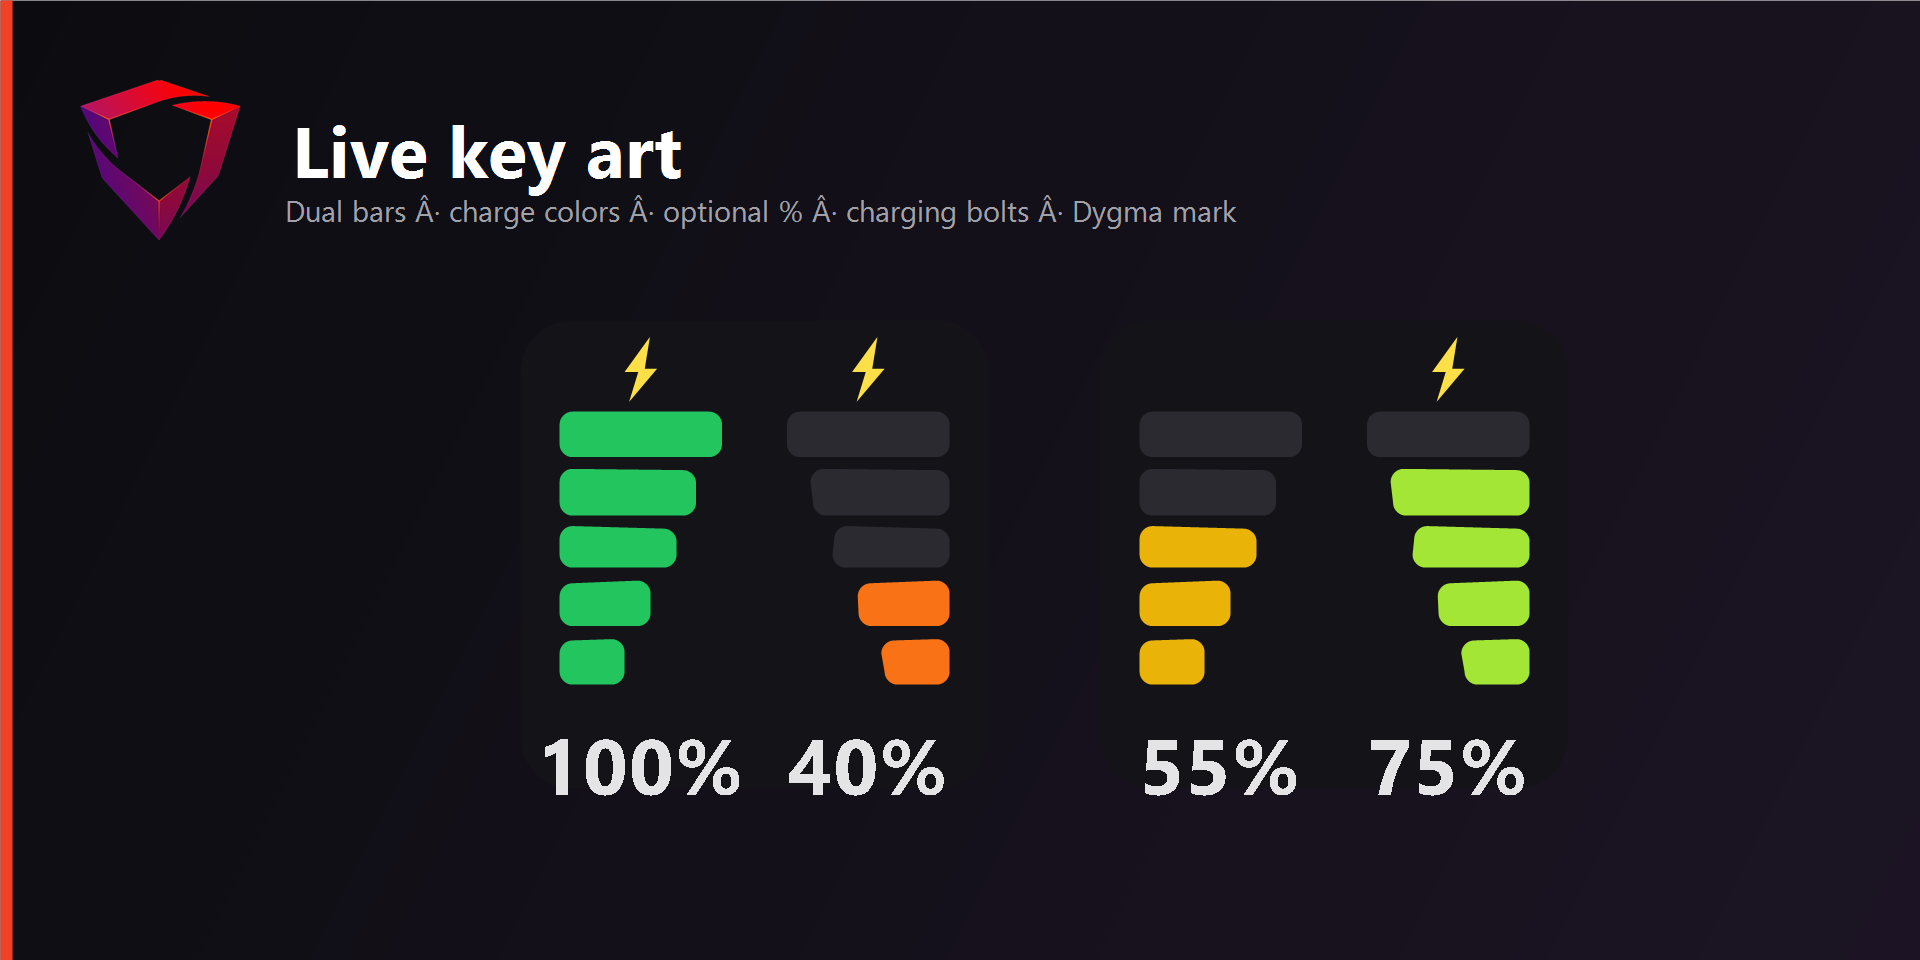
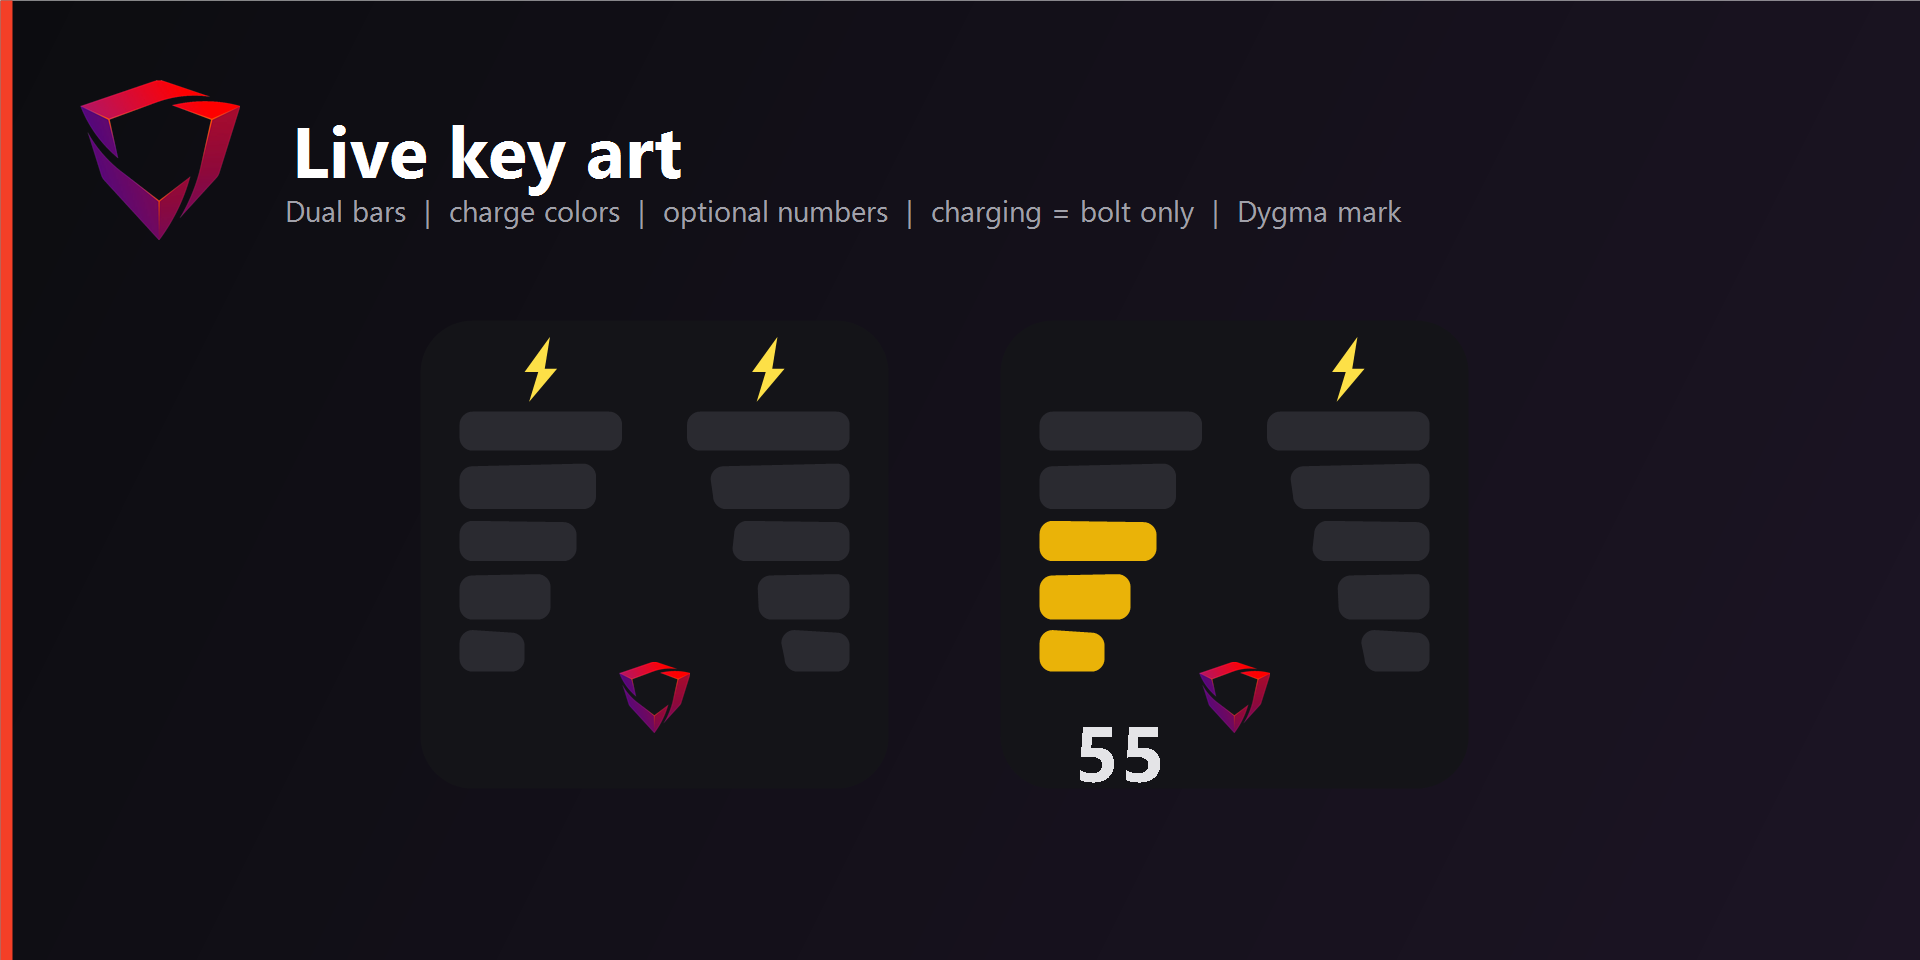
Hide level UI while charging; refresh Marketplace media.
Charging sides show bolt + empty outlines only (fuel-gauge % is unreliable). Marketplace generator matches plugin art, uses ASCII separators to avoid PS encoding mojibake, and reflows gallery-03 cards so status text stays in bounds.

diff --git a/plugin/src/visual.rs b/plugin/src/visual.rs
@@ -77,10 +77,20 @@ pub fn error_image_data_uri() -> String {
 }
 
 pub fn render_levels_svg(levels: &BatteryLevels, show_percentage: bool) -> String {
-    let left_blocks = blocks_for_percent(levels.left);
-    let right_blocks = blocks_for_percent(levels.right);
     let left_charge = is_charging(levels.left_status);
     let right_charge = is_charging(levels.right_status);
+    // While a side is on cable charge the fuel-gauge % is unreliable, so we
+    // keep empty outlines + bolt only (no filled blocks / number for that side).
+    let left_blocks = if left_charge {
+        0
+    } else {
+        blocks_for_percent(levels.left)
+    };
+    let right_blocks = if right_charge {
+        0
+    } else {
+        blocks_for_percent(levels.right)
+    };
 
     // Layout: two columns, padding, room for bolts / optional numbers.
     let pad_x = 6.0_f32;
@@ -144,18 +154,23 @@ pub fn render_levels_svg(levels: &BatteryLevels, show_percentage: bool) -> Strin
 
     if show_percentage {
         let y = VIEW - 5.0;
-        out.push_str(&format!(
-            r##"<text x="{:.1}" y="{:.1}" text-anchor="middle" fill="#e4e4e7" font-family="Segoe UI,system-ui,sans-serif" font-size="9" font-weight="600">{}</text>"##,
-            left_x0 + col_w / 2.0,
-            y,
-            levels.left.min(100)
-        ));
-        out.push_str(&format!(
-            r##"<text x="{:.1}" y="{:.1}" text-anchor="middle" fill="#e4e4e7" font-family="Segoe UI,system-ui,sans-serif" font-size="9" font-weight="600">{}</text>"##,
-            right_x0 + col_w / 2.0,
-            y,
-            levels.right.min(100)
-        ));
+        // Skip numbers on charging sides (level is not trustworthy while charging).
+        if !left_charge {
+            out.push_str(&format!(
+                r##"<text x="{:.1}" y="{:.1}" text-anchor="middle" fill="#e4e4e7" font-family="Segoe UI,system-ui,sans-serif" font-size="9" font-weight="600">{}</text>"##,
+                left_x0 + col_w / 2.0,
+                y,
+                levels.left.min(100)
+            ));
+        }
+        if !right_charge {
+            out.push_str(&format!(
+                r##"<text x="{:.1}" y="{:.1}" text-anchor="middle" fill="#e4e4e7" font-family="Segoe UI,system-ui,sans-serif" font-size="9" font-weight="600">{}</text>"##,
+                right_x0 + col_w / 2.0,
+                y,
+                levels.right.min(100)
+            ));
+        }
     }
 
     out.push_str("</svg>");
@@ -308,8 +323,8 @@ mod tests {
         let levels = BatteryLevels {
             left: 100,
             right: 40,
-            left_status: Some(1),
-            right_status: Some(2),
+            left_status: Some(0),
+            right_status: Some(0),
         };
         let with_pct = render_levels_svg(&levels, true);
         // Numbers only — no trailing % (avoids collision with center logo)
@@ -319,8 +334,6 @@ mod tests {
         assert!(!with_pct.contains("40%"));
         assert!(with_pct.contains("#22c55e")); // left full green
         assert!(with_pct.contains("#f97316")); // right 2 blocks orange
-        // charging bolt on right (status 2)
-        assert!(with_pct.contains("<path fill="));
         // Dygma brand mark present
         assert!(with_pct.contains("aria-label=\"Dygma\""));
         assert!(with_pct.contains("#F43F27"));
@@ -329,6 +342,39 @@ mod tests {
         assert!(!no_pct.contains(">100</text>"));
         assert!(!no_pct.contains("100%"));
         assert!(no_pct.contains("aria-label=\"Dygma\""));
+    }
+
+    #[test]
+    fn charging_hides_fill_and_number_keeps_bolt() {
+        // Stale/wrong levels while charging must not paint filled bars or digits.
+        let levels = BatteryLevels {
+            left: 100,
+            right: 40,
+            left_status: Some(1),
+            right_status: Some(2),
+        };
+        let svg = render_levels_svg(&levels, true);
+        assert!(!svg.contains(">100</text>"));
+        assert!(!svg.contains(">40</text>"));
+        assert!(!svg.contains("#22c55e"));
+        assert!(!svg.contains("#f97316"));
+        // Empty block fill + yellow bolt path
+        assert!(svg.contains("#2a2a30"));
+        assert!(svg.contains("#fde047"));
+        assert!(svg.contains("aria-label=\"Dygma\""));
+
+        // Mixed: only the charging side is blanked.
+        let mixed = BatteryLevels {
+            left: 55,
+            right: 80,
+            left_status: Some(0),
+            right_status: Some(1),
+        };
+        let mixed_svg = render_levels_svg(&mixed, true);
+        assert!(mixed_svg.contains(">55</text>"));
+        assert!(!mixed_svg.contains(">80</text>"));
+        assert!(mixed_svg.contains("#eab308")); // left 3 blocks yellow
+        assert!(mixed_svg.contains("#fde047")); // right bolt
     }
 
     #[test]

diff --git a/marketplace/LISTING.md b/marketplace/LISTING.md
@@ -36,8 +36,8 @@ Show left and right wireless battery levels from a Dygma Neuron on a Stream Deck
 
 - Dual vertical bars for left and right halves
 - Color by charge (green → red)
-- Optional percentage labels
-- Charging indicators
+- Optional numeric labels (no % sign)
+- Charging: bolt + empty outlines only (level is unreliable while charging)
 - Device picker when multiple Neurons are connected
 - Auto-poll (default 60s) and key-press force refresh
 
@@ -84,7 +84,7 @@ Hardware integrations need a short demo. Suggested script (~30–60s):
 1. Stream Deck + Neuron USB + wireless halves; Bazecor closed.
 2. Add **Dygma Battery** action; show bars update.
 3. Optional: toggle % in property inspector.
-4. Optional: plug charger → bolt appears.
+4. Optional: plug charger → bolt appears; filled level hides while charging.
 5. Optional: force refresh by pressing the key.
 
 Export **1920×1080 MP4**, under size limits in Maker Console.
